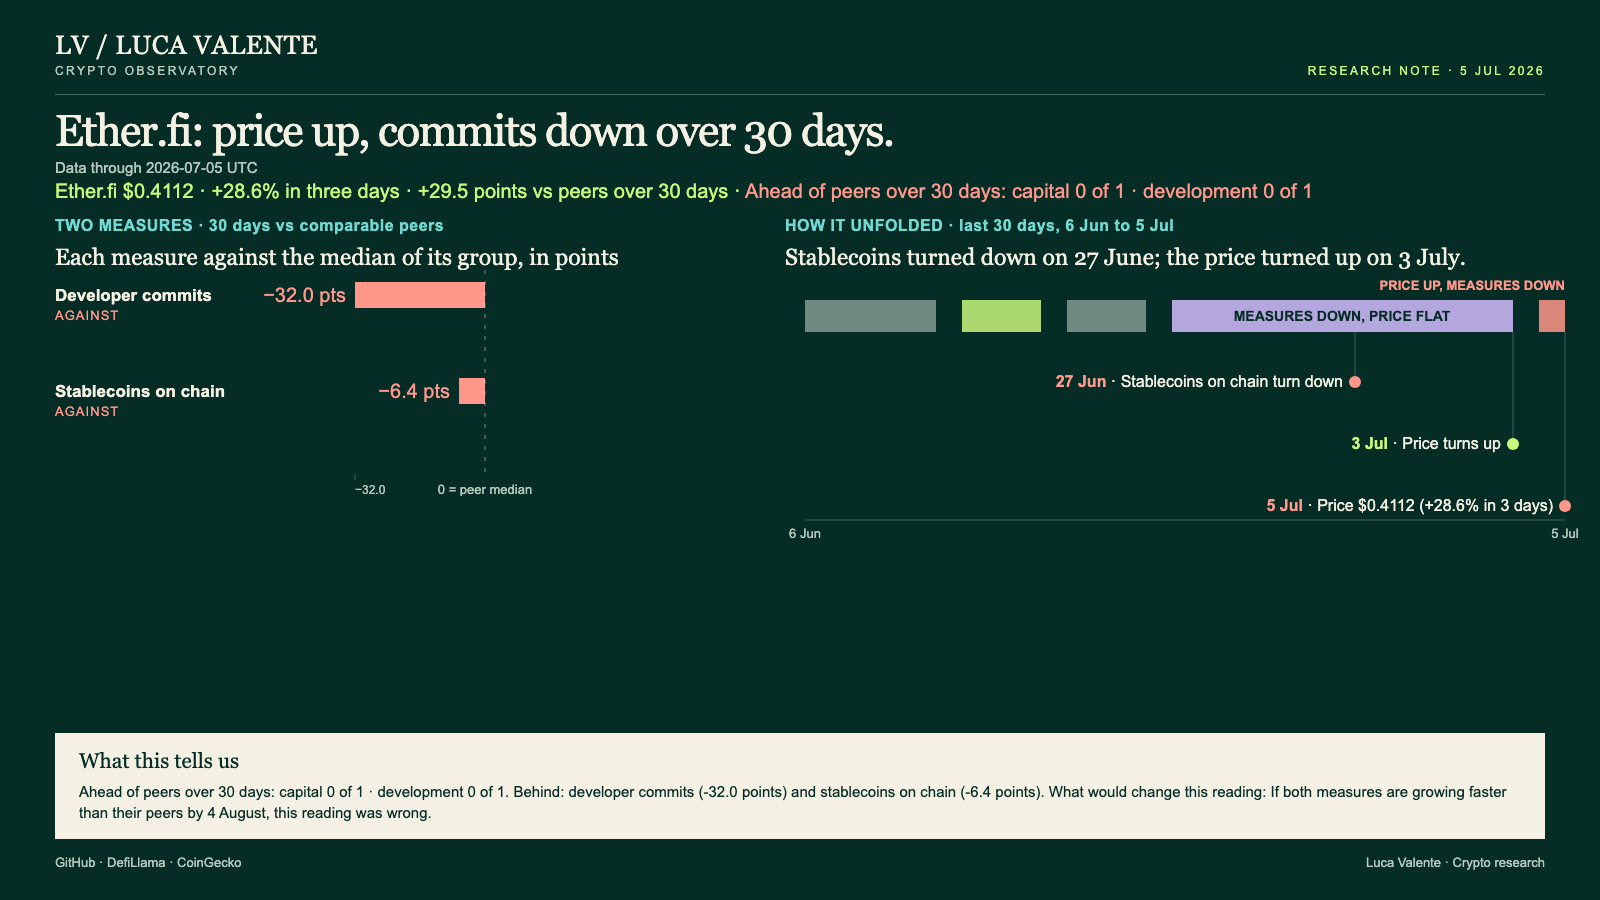
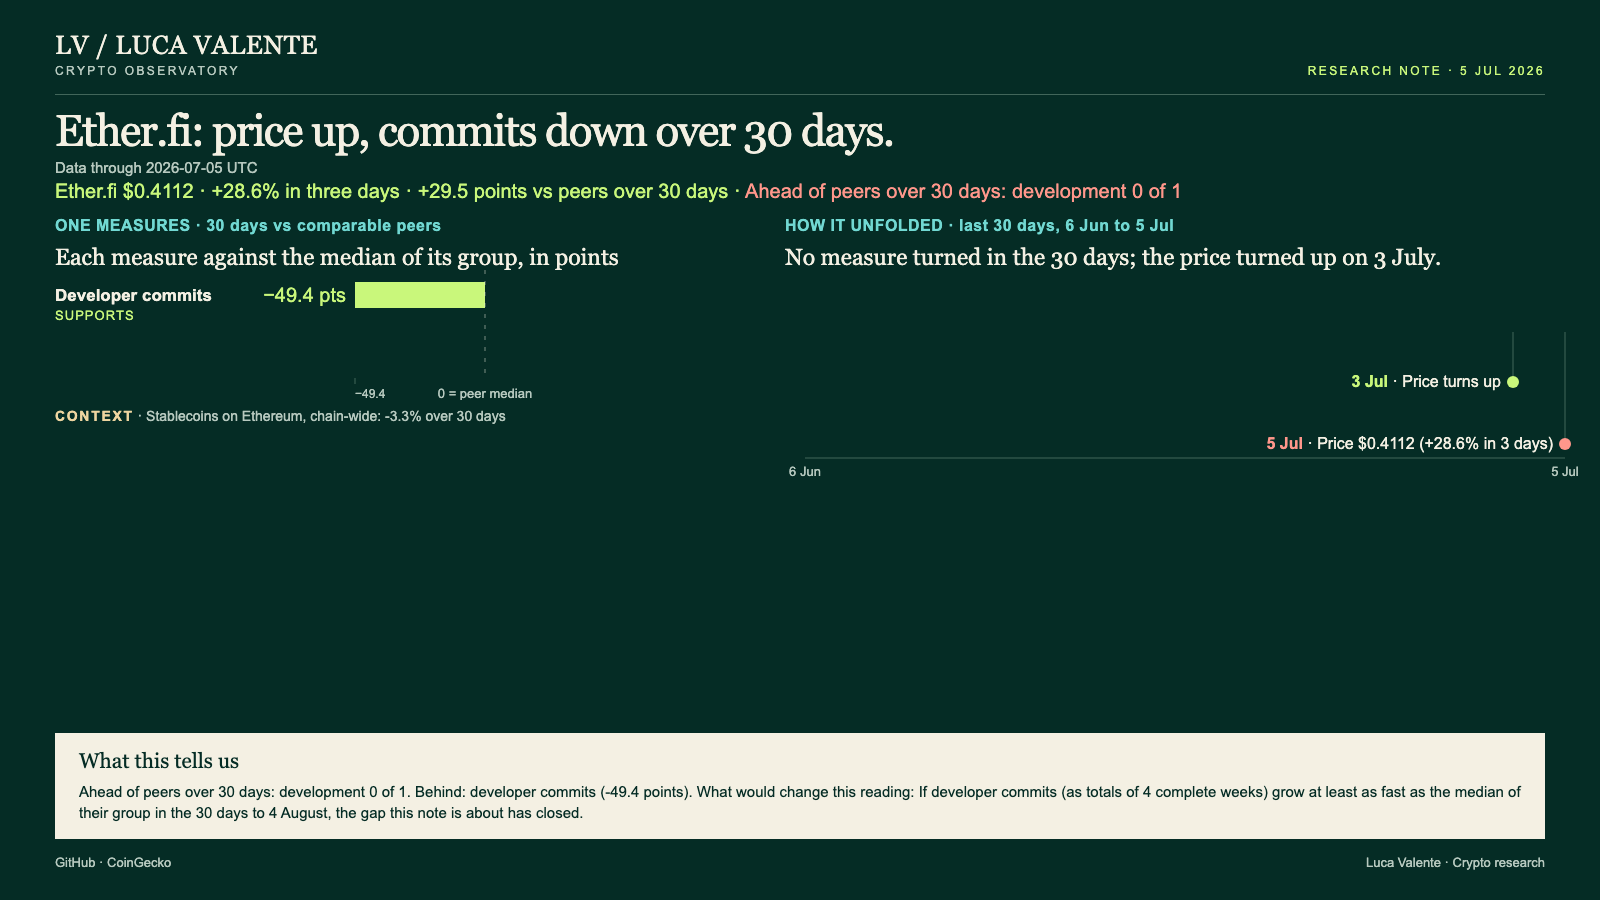
Nono giro: P50b Ether.fi sostituisce P50 nel Training (stessa pagina)

diff --git a/p50-ether-fi-2026-07-05.html b/p50-ether-fi-2026-07-05.html
@@ -1,8 +1,8 @@
 <!doctype html>
 <html lang="en"><head><meta charset="utf-8">
 <meta name="viewport" content="width=device-width, initial-scale=1">
-<title>Ether.fi&#x27;s Token Climbs While The Lines I Can See Slip · Luca Valente · Crypto research</title>
-<meta name="description" content="Ether.fi&#x27;s token ran ahead of its liquid staking group over the past month, while both measures I have for the protocol fell behind it.">
+<title>Fewer Commits And A Rising Price At Ether.fi · Luca Valente · Crypto research</title>
+<meta name="description" content="By the close of 5 July, the ETHFI token was climbing, and the code work on Ether.fi was running well behind its peers.">
 <meta name="robots" content="noindex">
 <link rel="alternate" type="application/rss+xml" title="Luca Valente · Crypto research" href="feed.xml">
 <link rel="stylesheet" href="stile.css">
@@ -11,19 +11,16 @@
   <div class="marchio"><a href="index.html">LV / LUCA VALENTE<small>CRYPTO RESEARCH</small></a></div>
   <nav><a href="index.html">Notes</a> <a href="archive.html">Archive</a> <a href="training.html" class="attiva">Training</a> <a href="about.html">About</a></nav>
 </header>
-<main><article class="pezzo"><p class="training">Training note, written on 24 September 2026 from data as of 5 July 2026. Not part of the published series.</p><div class="pezzo-data">5 July 2026</div><h1>Ether.fi&#x27;s Token Climbs While The Lines I Can See Slip</h1><figure class="copertina"><img src="immagini/p50-ether-fi-2026-07-05/ether-fi_1080x1350.png" alt=""></figure><p>Ether.fi&#x27;s token ran ahead of its liquid staking group over the past month, while both measures I have for the protocol fell behind it. One of them is not even Ether.fi&#x27;s own. For anyone holding ETHFI, the token of an Ethereum protocol that stakes users&#x27; ether and gives them a tradable receipt, the question is how much of that climb these numbers can speak to. Very little.</p>
-<p>Both bars on the cover start from a zero line, the group median, and run to its left: developer commits 32.0 points below it, stablecoins on Ethereum 6.4 below. Only the price is on the plus side. ETHFI stood at $0.4112 on 5 July, up 28.6% in three days and 28.1% over 30 days, against -1.5% for the median of the nine listed liquid staking tokens, ETHFI included. A gap of 29.5 points.</p>
-<p>Each measure is compared only with the members of Ether.fi&#x27;s group, 34 liquid staking entities in all, that report it, Ether.fi included. I read the two apart. Commits are development, code changes logged weekly in the project&#x27;s public repositories; stablecoins are capital, the dollar value of stablecoins sitting on a protocol&#x27;s chain. Usage, meaning fees or trading volume, is not in these numbers.</p>
-<p>Development turned first: commits turned down in the week beginning 31 May and fell in 3 of 5 weeks to 4 July, for a 30-day change of -53.8%. Capital came next. The cover&#x27;s timeline marks it: stablecoins on Ethereum turned down on 27 June, fell on 8 of 9 days to 5 July and ended the 30 days 3.3% lower. ETHFI turned up last, on 3 July, and rose three days running, to the 28.6% at the timeline&#x27;s right edge.</p>
-<p>Against a group median of -21.9% across the 13 liquid staking entities that report commits, Ether.fi included, that fall leaves Ether.fi 32.0 points behind. It counts for less than it seems. Over the last twelve complete weeks the count ran from 3, in the week of 12 April, to 102, in the week of 24 May. A line that jumpy can fall hard in a month on noise alone.</p>
+<main><article class="pezzo"><p class="training">Training note, written on 24 September 2026 from data as of 5 July 2026. Not part of the published series.</p><div class="pezzo-data">5 July 2026</div><h1>Fewer Commits And A Rising Price At Ether.fi</h1><figure class="copertina"><img src="immagini/p50-ether-fi-2026-07-05/ether-fi_1080x1350.png" alt=""></figure><p>By the close of 5 July, the ETHFI token was climbing, and the code work on Ether.fi was running well behind its peers. For anyone holding ETHFI, the price and the only measure of the project&#x27;s own work point opposite ways. Both sit on the cover.</p>
+<p>Only one bar appears there: developer commits, the code changes logged each week in the project&#x27;s public repositories, 49.4 points below the median of its group. One bar, one measure. Ether.fi is a liquid staking protocol on Ethereum, a service that stakes ether for its users, and ETHFI is its token.</p>
+<p>Counting the last four complete weeks against the four before, commits fell 56.8%, from 347 to 150. The 13 members of the 30-strong Liquid Staking group that report commits, Ether.fi included, had a median change of -7.4%. The commits turned first, in the week of 31 May to 6 June, and fell in 2 of the 4 weeks that followed, the four whose total is down 56.8%. The price turned up on 3 July.</p>
+<p>Here is how I will know whether the gap closes. If developer commits (as totals of 4 complete weeks) grow at least as fast as the median of their group in the 30 days to 4 August, the gap this note is about has closed. This note follows development shrinking while the token rises; commits keeping pace with their group would remove the shrinking half. The price alone would be left.</p>
+<p>ETHFI stood at $0.4112 on 5 July, up 9.8% that day alone. Over 30 days, end against start, it gained 28.1%, while the median of the 9 group members with a listed price fell 1.5%. That is 29.5 points ahead. Nothing here ties commits to the price.</p>
+<p>Any skeptic starts with the thinness: one measure, whose weekly count has ranged between 3 and 102 over the last 12 complete weeks (the latest, 29, sits in between). That point stands. Of usage, capital and development, read apart, only development is in these numbers for Ether.fi: no fees, trading volume, value locked or user counts, no news or reasons, nothing after 5 July.</p>
 <figure><img src="immagini/p50-ether-fi-2026-07-05/ether-fi_commit_1600x900.png" alt="" loading="lazy"></figure>
-<p>Capital means the stablecoins held on Ethereum, $154.16 billion on 5 July; their 30-day fall compares with a median rise of 3.1% across the 31 group members reporting them, Ether.fi included. That is 6.4 points behind. In 90 days the total ranged from $154.07 billion on 3 July to $168.70 billion on 19 April. A plain caveat, though: it&#x27;s Ethereum&#x27;s figure, describing the chain Ether.fi runs on and not Ether.fi itself.</p>
-<p>Over 90 days ETHFI peaked at $0.5141 on 18 April and touched a low of $0.2864 on 6 June, and 5 July alone added 9.8%, from $0.3744 to $0.4112. Nothing here says why. The numbers carry no news, no announcement and no reason, and I will not supply one.</p>
-<figure><img src="immagini/p50-ether-fi-2026-07-05/ether-fi_prezzo_1600x900.png" alt="" loading="lazy"></figure>
-<p>Missing from this data are the lines that would describe Ether.fi from the inside: value locked, fees, and any count of users or wallets. None is here. Without them I cannot say whether the protocol grew or shrank over the month, and nothing in these numbers reaches past 5 July. That limits what this note can claim.</p>
-<p>This note&#x27;s weakest point is the commit line, the one measure here that is Ether.fi&#x27;s own: 29 commits in the latest complete week, against 28 the week before. Two weekly counts make no trend. That line, with the chain&#x27;s stablecoins beside it, is where it could come apart. If both measures are growing faster than their peers by 4 August, this reading was wrong.</p>
-<p>What I am describing is a token rising while capital and development fall, and two measures ahead of their groups by that date would close that split. Until then, the climb in ETHFI rests on ground that the two lines in this note cannot see. Neither can I.</p>
-<p>Sources: GitHub (developer commits), DefiLlama (stablecoins on Ethereum), CoinGecko (price).</p>
+<p>Against that, I have a yardstick. Net of peers, the middle half of this 30-day change over the last 90 days ran from +9.8 to +144.9 points, a band drawn from the same jumpy line; -49.4 sits below it. That is why the measure counts. On the missing measures the skeptic wins: I have no clean way to judge a protocol on code alone.</p>
+<p>Nothing here says what that code was meant to build, the thing I would most want to know before judging who is right. Commits are counted here, not read.</p>
+<p>Sources: GitHub (developer commits), CoinGecko (price).</p>
 <p class="pari">Peer group: 30 liquid staking protocols tracked by DefiLlama (<a href="peers.html#liquid-staking">who they are</a>). 'Net of the group' is the 30-day change minus the group's median.</p>
 <p>Not financial advice. This is a research note based on public on-chain data.</p></article></main>
 <footer class="piede">

diff --git a/training.html b/training.html
@@ -103,8 +103,8 @@
   <a class="voce-immagine" href="p50-ether-fi-2026-07-05.html"><img src="immagini/p50-ether-fi-2026-07-05/ether-fi_1080x1350.png" alt="" loading="lazy"></a>
   <div class="voce-testo">
     <div class="voce-data">5 July 2026</div>
-    <h2><a href="p50-ether-fi-2026-07-05.html">Ether.fi&#x27;s Token Climbs While The Lines I Can See Slip</a></h2>
-    <p>Ether.fi&#x27;s token ran ahead of its liquid staking group over the past month, while both measures I have for the protocol fell behind it.</p>
+    <h2><a href="p50-ether-fi-2026-07-05.html">Fewer Commits And A Rising Price At Ether.fi</a></h2>
+    <p>By the close of 5 July, the ETHFI token was climbing, and the code work on Ether.fi was running well behind its peers.</p>
   </div>
 </article>
 <article class="voce">
